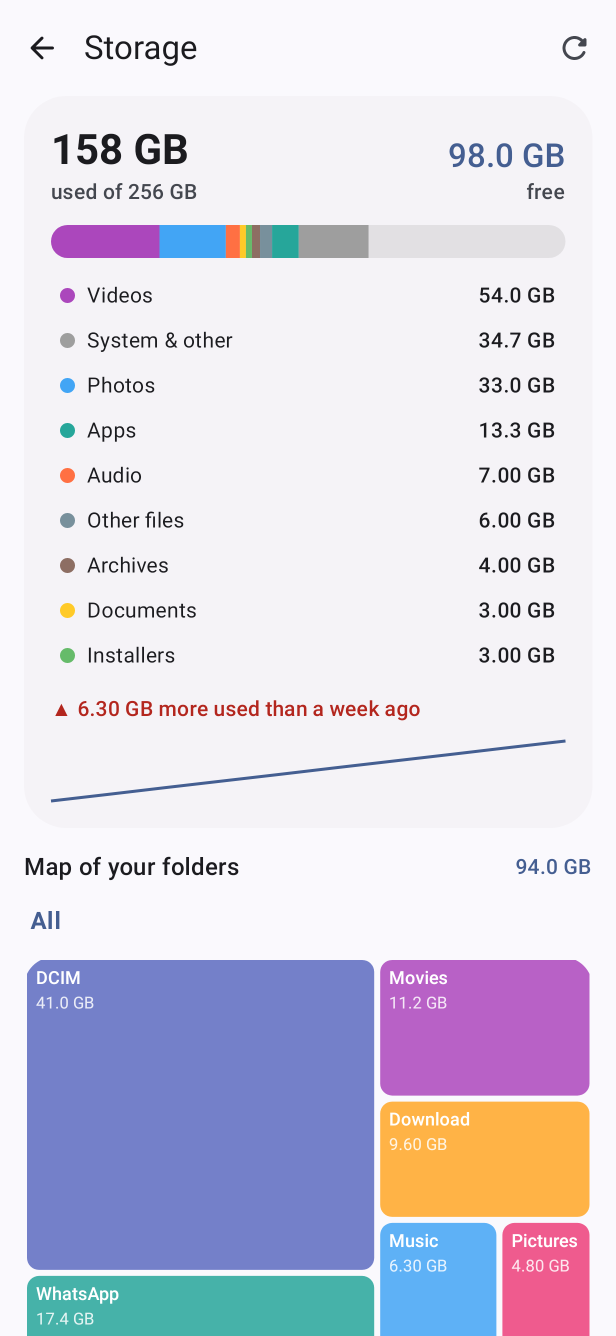
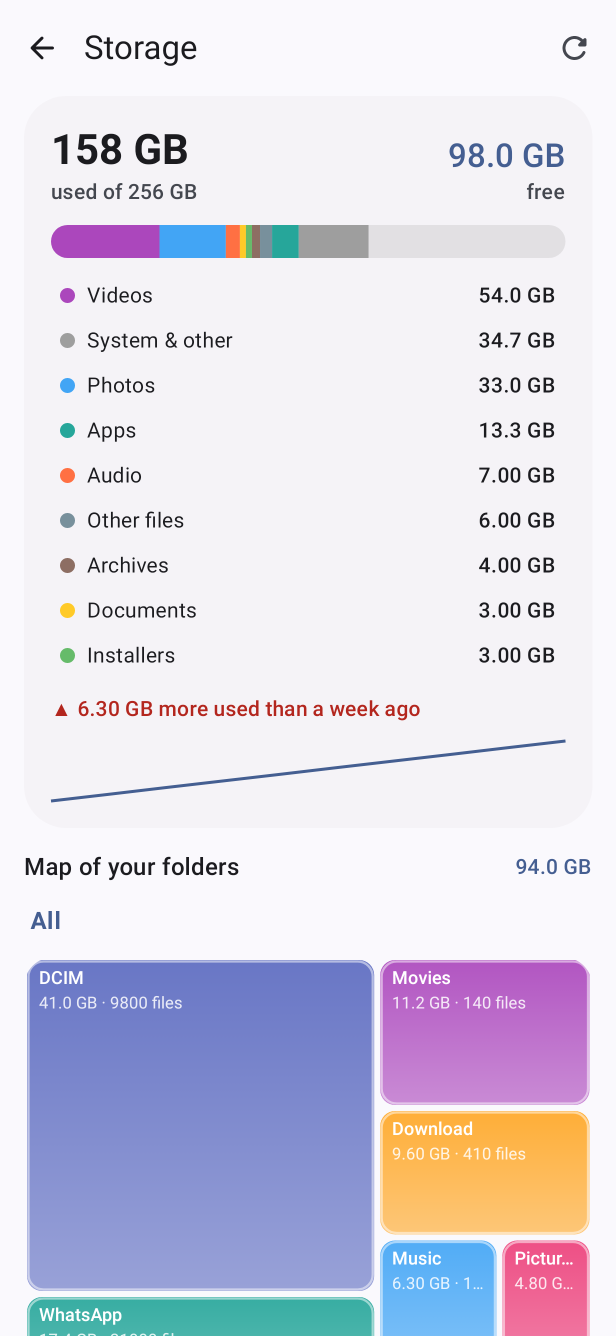
feat(storage): open a folder and see its files as tiles, with a zoom from the tapped tile and a short glow on the biggest
Folders that hold only files used to show one 'Files here' block. The scan now keeps each folder's 40 biggest files and the map draws subfolders and files together, with one tile for what is left so tiles add up to the folder. Tiles grow in one after another, tapping a folder zooms in from it, the biggest tile glows briefly every few seconds (no frames requested in between), and the totals count up. Adds a short file list under the map and a sixth README screenshot.

Claude-Session: https://claude.ai/code/session_01Tx3SnRy1Ho2ASXx4YFffLW

Changed region(s): [[0.0308, 0.7058, 0.9562, 1.0], [0.1851, 0.7365, 0.2776, 0.7672]]

diff --git a/app/src/main/java/app/ultimate/storage/StorageTool.kt b/app/src/main/java/app/ultimate/storage/StorageTool.kt
@@ -5,6 +5,16 @@ import android.net.Uri
 import android.provider.Settings
 import androidx.activity.compose.BackHandler
 import androidx.compose.animation.AnimatedContent
+import kotlinx.coroutines.delay
+import androidx.compose.ui.unit.Constraints
+import androidx.compose.ui.platform.LocalHapticFeedback
+import androidx.compose.ui.hapticfeedback.HapticFeedbackType
+import androidx.compose.ui.graphics.drawscope.withTransform
+import androidx.compose.ui.graphics.TransformOrigin
+import androidx.compose.ui.graphics.Brush
+import androidx.compose.runtime.mutableIntStateOf
+import androidx.compose.animation.scaleOut
+import androidx.compose.animation.core.LinearEasing
 import androidx.compose.animation.core.Animatable
 import androidx.compose.animation.core.FastOutSlowInEasing
 import androidx.compose.animation.core.tween
@@ -145,6 +155,9 @@ internal fun StorageScreen(app: UltimateApp, tool: StorageTool, onExit: () -> Un
     var path by remember { mutableStateOf(listOf<Folder>()) }
     var kindFilter by remember { mutableStateOf<FileKind?>(null) }
     var picked by remember { mutableStateOf<BigFile?>(null) }
+    var zoomFrom by remember { mutableStateOf(TransformOrigin.Center) }
+    var allHere by remember { mutableStateOf(false) }
+    LaunchedEffect(path) { allHere = false }
     fun rescan() = scope.launch {
         scanned = 0
         val r = withContext(Dispatchers.IO) { StorageScanner(context).scan { n -> scanned = n } }
@@ -205,11 +218,22 @@ internal fun StorageScreen(app: UltimateApp, tool: StorageTool, onExit: () -> Un
                                 color = if (i == path.size) MaterialTheme.colorScheme.primary else MaterialTheme.colorScheme.onSurfaceVariant, fontWeight = if (i == path.size) FontWeight.Bold else null)
                         }
                     }
-                    AnimatedContent(here, transitionSpec = { (scaleIn(initialScale = 0.92f) + fadeIn(tween(250))) togetherWith fadeOut(tween(150)) }, label = "map") { folder ->
-                        FolderMap(folder) { child -> if (child.children.isNotEmpty() || child.own > 0) path = path + child }
+                    // Going in zooms out of the tile you tapped; going back zooms away from it.
+                    AnimatedContent(here, transitionSpec = {
+                        val deeper = targetState.path.length > initialState.path.length
+                        if (deeper) (scaleIn(tween(340, easing = FastOutSlowInEasing), 0.3f, zoomFrom) + fadeIn(tween(220))) togetherWith (scaleOut(tween(260), 1.15f) + fadeOut(tween(160)))
+                        else (scaleIn(tween(300, easing = FastOutSlowInEasing), 1.12f) + fadeIn(tween(220))) togetherWith (scaleOut(tween(280), 0.3f, zoomFrom) + fadeOut(tween(200)))
+                    }, label = "map") { folder ->
+                        FolderMap(folder, onFolder = { child, origin -> zoomFrom = origin; path = path + child }, onFile = { picked = it })
                     }
-                    Text("Tap a tile to look inside. Bigger tile, more space.", style = MaterialTheme.typography.labelSmall, color = MaterialTheme.colorScheme.outline)
+                    Text("Tap a folder to look inside, or a file to open it. Bigger tile, more space.", style = MaterialTheme.typography.labelSmall, color = MaterialTheme.colorScheme.outline)
                 }
+            }
+            val hereFiles = (path.lastOrNull() ?: r.root).filesBySize()
+            if (hereFiles.isNotEmpty()) {
+                item("here-header") { Text(if (path.isEmpty()) "Files in the top folder" else "Files in ${path.last().name}", style = MaterialTheme.typography.titleMedium, fontWeight = FontWeight.SemiBold) }
+                items(hereFiles.take(if (allHere) 40 else 8), key = { "h" + it.path }) { f -> FileRow(f) { picked = f } }
+                if (hereFiles.size > 8 && !allHere) item("here-more") { TextButton({ allHere = true }) { Text("Show the biggest ${hereFiles.size}") } }
             }
             item { Text("Biggest folders", style = MaterialTheme.typography.titleMedium, fontWeight = FontWeight.SemiBold) }
             items(biggestFolders(r.root).take(8), key = { "f" + it.path }) { f ->
@@ -290,11 +314,11 @@ private fun Overview(r: StorageReport, selected: FileKind?, onKind: (FileKind) -
     Column(Modifier.fillMaxWidth().clip(RoundedCornerShape(28.dp)).background(MaterialTheme.colorScheme.surfaceContainerLow).padding(18.dp), verticalArrangement = Arrangement.spacedBy(12.dp)) {
         Row(verticalAlignment = Alignment.Bottom) {
             Column(Modifier.weight(1f)) {
-                Text(formatBytes(r.used), style = MaterialTheme.typography.headlineMedium, fontWeight = FontWeight.Bold)
+                Text(formatBytes((r.used * grow.value).toLong()), style = MaterialTheme.typography.headlineMedium, fontWeight = FontWeight.Bold)
                 Text("used of ${formatBytes(r.total)}", style = MaterialTheme.typography.labelLarge, color = MaterialTheme.colorScheme.onSurfaceVariant)
             }
             Column(horizontalAlignment = Alignment.End) {
-                Text(formatBytes(r.free), style = MaterialTheme.typography.titleLarge, color = MaterialTheme.colorScheme.primary, fontWeight = FontWeight.SemiBold)
+                Text(formatBytes((r.free * grow.value).toLong()), style = MaterialTheme.typography.titleLarge, color = MaterialTheme.colorScheme.primary, fontWeight = FontWeight.SemiBold)
                 Text("free", style = MaterialTheme.typography.labelLarge, color = MaterialTheme.colorScheme.onSurfaceVariant)
             }
         }
@@ -332,33 +356,66 @@ private fun Sparkline(values: List<Long>) {
     }
 }
 
-/** The squarified map of a folder's subfolders (and its own files as one tile); tap a tile to go inside. */
+/**
+ * The squarified map of what is in a folder: subfolders and files, tile size by bytes. Tiles grow in one after another, the
+ * pressed tile dips, and the biggest one gives a short glow every few seconds; nothing else moves, so it costs next to nothing.
+ */
 @Composable
-private fun FolderMap(folder: Folder, onOpen: (Folder) -> Unit) {
+internal fun FolderMap(folder: Folder, onFolder: (Folder, TransformOrigin) -> Unit, onFile: (BigFile) -> Unit) {
     val measurer = rememberTextMeasurer()
-    val children = folder.sortedChildren().take(24)
-    val shown = children.sumOf { it.bytes }
-    val items = children.map { Triple(it.path, it.name, it.bytes) } +
-        listOfNotNull((folder.bytes - shown).takeIf { it > 0 }?.let { Triple("__own", if (folder.own > 0 && children.size < 24) "Files here" else "Everything else", it) })
-    val tiles = remember(folder) { Treemap.layout(items) }
-    val palette = listOf(0xFF5C6BC0, 0xFF26A69A, 0xFFAB47BC, 0xFFFFA726, 0xFF42A5F5, 0xFFEC407A, 0xFF66BB6A, 0xFF8D6E63).map { Color(it) }
-    val grow = remember(folder) { Animatable(0f) }
-    LaunchedEffect(folder) { grow.animateTo(1f, tween(500, easing = FastOutSlowInEasing)) }
-    Box(Modifier.fillMaxWidth().height(300.dp).clip(RoundedCornerShape(20.dp))) {
+    val items = remember(folder) { MapItems.of(folder) }
+    val byKey = remember(items) { items.associateBy { it.key } }
+    val tiles = remember(items) { Treemap.layout(items.map { Triple(it.key, it.label, it.bytes) }) }
+    val palette = remember { listOf(0xFF5C6BC0, 0xFF26A69A, 0xFFAB47BC, 0xFFFFA726, 0xFF42A5F5, 0xFFEC407A, 0xFF66BB6A, 0xFF8D6E63).map { Color(it) } }
+    val intro = remember(folder) { Animatable(0f) }
+    LaunchedEffect(folder) { intro.animateTo(1f, tween(700, easing = LinearEasing)) }
+    // One short glow on the biggest tile every few seconds. Between glows no frame is requested at all.
+    val glow = remember(folder) { Animatable(0f) }
+    LaunchedEffect(folder) { delay(1500); while (true) { glow.snapTo(0f); glow.animateTo(1f, tween(900)); delay(6000) } }
+    var pressed by remember(folder) { mutableIntStateOf(-1) }
+    val haptics = LocalHapticFeedback.current
+    Box(Modifier.fillMaxWidth().height(320.dp).clip(RoundedCornerShape(20.dp))) {
         Canvas(Modifier.fillMaxSize().pointerInput(tiles) {
-            detectTapGestures { p -> tiles.firstOrNull { t -> p.x / size.width in t.x..(t.x + t.w) && p.y / size.height in t.y..(t.y + t.h) }?.let { t -> children.firstOrNull { it.path == t.key }?.let(onOpen) } }
+            fun hit(p: Offset) = tiles.indexOfFirst { t -> p.x / size.width in t.x..(t.x + t.w) && p.y / size.height in t.y..(t.y + t.h) }
+            detectTapGestures(onPress = { p -> pressed = hit(p); tryAwaitRelease(); pressed = -1 }) { p ->
+                val i = hit(p); if (i < 0) return@detectTapGestures
+                val item = byKey[tiles[i].key] ?: return@detectTapGestures
+                val t = tiles[i]
+                when {
+                    item.folder != null -> { haptics.performHapticFeedback(HapticFeedbackType.TextHandleMove); onFolder(item.folder, TransformOrigin(t.x + t.w / 2, t.y + t.h / 2)) }
+                    item.file != null -> onFile(item.file)
+                }
+            }
         }) {
+            val n = tiles.size
+            var palettePick = 0
             tiles.forEachIndexed { i, t ->
+                val item = byKey[t.key] ?: return@forEachIndexed
+                // Each tile starts a little after the one before it.
+                val e = FastOutSlowInEasing.transform(((intro.value * (n + 5) - i) / 5f).coerceIn(0f, 1f))
                 val gap = 2.dp.toPx()
                 val tl = Offset(t.x * size.width + gap, t.y * size.height + gap)
                 val sz = Size((t.w * size.width - gap * 2).coerceAtLeast(0f), (t.h * size.height - gap * 2).coerceAtLeast(0f))
-                val base = if (t.key == "__own") Color(0xFF546E7A) else palette[i % palette.size]
-                drawRoundRect(base.copy(alpha = 0.35f + 0.5f * grow.value), tl, sz, CornerRadius(8.dp.toPx()))
-                if (sz.width > 56.dp.toPx() && sz.height > 30.dp.toPx()) {
-                    val style = TextStyle(color = Color.White, fontSize = 12.sp, fontWeight = FontWeight.SemiBold)
-                    val label = measurer.measure(t.label, style, maxLines = 1, overflow = TextOverflow.Ellipsis, constraints = androidx.compose.ui.unit.Constraints(maxWidth = (sz.width - 12.dp.toPx()).toInt().coerceAtLeast(1)))
-                    drawText(label, topLeft = tl + Offset(6.dp.toPx(), 5.dp.toPx()))
-                    if (sz.height > 48.dp.toPx()) drawText(measurer.measure(formatBytes(t.bytes), TextStyle(color = Color.White.copy(alpha = 0.85f), fontSize = 11.sp)), topLeft = tl + Offset(6.dp.toPx(), 22.dp.toPx()))
+                val base = when { item.file != null -> KIND_COLORS[item.file.kind] ?: Color(0xFF78909C); item.hidden > 0 -> Color(0xFF546E7A); else -> palette[palettePick++ % palette.size] }
+                val s = (0.82f + 0.18f * e) * (if (pressed == i) 0.97f else 1f)
+                withTransform({ scale(s, s, pivot = tl + Offset(sz.width / 2, sz.height / 2)) }) {
+                    val radius = CornerRadius(10.dp.toPx())
+                    drawRoundRect(Brush.verticalGradient(listOf(base.copy(alpha = 0.92f * e), base.copy(alpha = 0.62f * e)), startY = tl.y, endY = tl.y + sz.height), tl, sz, radius)
+                    // Folders (which open) get a soft inner outline; files are plain.
+                    if (item.folder != null) drawRoundRect(Color.White.copy(alpha = 0.5f * e), tl + Offset(1.dp.toPx(), 1.dp.toPx()), Size(sz.width - 2.dp.toPx(), sz.height - 2.dp.toPx()), radius, style = Stroke(1.5.dp.toPx()))
+                    if (i == 0 && glow.value > 0f && glow.value < 1f) {
+                        val grow = glow.value * 6.dp.toPx()
+                        drawRoundRect(Color.White.copy(alpha = (1f - glow.value) * 0.6f), tl - Offset(grow, grow), Size(sz.width + grow * 2, sz.height + grow * 2), CornerRadius(10.dp.toPx() + grow), style = Stroke(2.dp.toPx()))
+                    }
+                    if (sz.width > 56.dp.toPx() && sz.height > 30.dp.toPx()) {
+                        val inset = 8.dp.toPx()
+                        val maxW = (sz.width - inset - 6.dp.toPx()).toInt().coerceAtLeast(1)
+                        drawText(measurer.measure(item.label, TextStyle(color = Color.White.copy(alpha = e), fontSize = 12.sp, fontWeight = FontWeight.SemiBold), maxLines = 1, overflow = TextOverflow.Ellipsis, constraints = Constraints(maxWidth = maxW)), topLeft = tl + Offset(inset, 5.dp.toPx()))
+                        if (sz.height > 48.dp.toPx()) {
+                            val line = formatBytes(item.bytes) + (item.folder?.let { " · ${it.files} files" } ?: "")
+                            drawText(measurer.measure(line, TextStyle(color = Color.White.copy(alpha = 0.85f * e), fontSize = 11.sp), maxLines = 1, overflow = TextOverflow.Ellipsis, constraints = Constraints(maxWidth = maxW)), topLeft = tl + Offset(inset, 22.dp.toPx()))
+                        }
+                    }
                 }
             }
         }

diff --git a/app/src/testUltimateplus/java/app/ultimate/shots/ScreenshotTest.kt b/app/src/testUltimateplus/java/app/ultimate/shots/ScreenshotTest.kt
@@ -4,14 +4,19 @@ import android.app.NotificationManager
 import android.content.Intent
 import android.os.Environment
 import androidx.compose.foundation.layout.PaddingValues
+import androidx.compose.foundation.background
 import androidx.compose.foundation.layout.fillMaxSize
+import androidx.compose.foundation.layout.wrapContentSize
+import androidx.compose.foundation.layout.padding
 import androidx.compose.material3.MaterialTheme
 import androidx.compose.material3.Surface
 import androidx.compose.ui.Modifier
 import androidx.compose.ui.test.hasSetTextAction
 import androidx.compose.ui.test.junit4.createComposeRule
 import androidx.compose.ui.test.onNodeWithContentDescription
+import androidx.compose.ui.test.onNodeWithTag
 import androidx.compose.ui.test.onRoot
+import androidx.compose.ui.platform.testTag
 import androidx.compose.ui.test.performClick
 import androidx.compose.ui.test.performTextInput
 import androidx.compose.ui.unit.dp
@@ -29,6 +34,7 @@ import app.ultimate.sshclient.HostsTool
 import app.ultimate.storage.AppSize
 import app.ultimate.storage.BigFile
 import app.ultimate.storage.Folder
+import app.ultimate.storage.FolderMap
 import app.ultimate.storage.StorageReport
 import app.ultimate.storage.StorageTool
 import com.github.takahirom.roborazzi.RoborazziOptions
@@ -79,9 +85,17 @@ class ScreenshotTest {
         compose.waitForIdle()
     }
 
-    private fun save(name: String) {
+    /** Saves the whole screen, or only the part of it holding the node tagged [tag] (cropped from its measured bounds). */
+    private fun save(name: String, tag: String? = null) {
         val out = dir!!.apply { mkdirs() }.resolve("$name.png")
-        compose.onRoot().captureRoboImage(out.path, roborazziOptions = RoborazziOptions(taskType = RoborazziTaskType.Record, recordOptions = RoborazziOptions.RecordOptions(resizeScale = 0.5)))
+        val scale = 0.5
+        compose.onRoot().captureRoboImage(out.path, roborazziOptions = RoborazziOptions(taskType = RoborazziTaskType.Record, recordOptions = RoborazziOptions.RecordOptions(resizeScale = scale)))
+        if (tag != null) {
+            val box = compose.onNodeWithTag(tag).fetchSemanticsNode().boundsInRoot
+            val whole = android.graphics.BitmapFactory.decodeFile(out.path)
+            val crop = android.graphics.Bitmap.createBitmap(whole, (box.left * scale).toInt(), (box.top * scale).toInt(), (box.width * scale).toInt().coerceAtMost(whole.width), (box.height * scale).toInt())
+            out.outputStream().use { crop.compress(android.graphics.Bitmap.CompressFormat.PNG, 100, it) }
+        }
         println("SHOT>>> $name ${out.length()} bytes")
     }
 
@@ -125,6 +139,18 @@ class ScreenshotTest {
         ).forEach { tool.vault.saveHost(it) }
         show { tool.Screen({}, ToolLaunch()) }
         save("hosts")
+    }
+
+    /** A folder that holds only files, like Movies/Sora: the map shows each file instead of one block. */
+    @Test fun storageFolder() {
+        val sora = Folder("Sora", "/sdcard/Movies/Sora")
+        fun f(name: String, mb: Long, kind: FileKind) = BigFile(sora.path + "/" + name, name, mb * 1_000_000, System.currentTimeMillis(), kind).also { sora.addFile(it); sora.own += it.bytes; sora.ownFiles++; sora.bytes += it.bytes; sora.files++ }
+        f("sora-city-walk.mp4", 612, FileKind.Video); f("sora-ocean-4k.mp4", 431, FileKind.Video); f("sora-forest.mp4", 287, FileKind.Video)
+        f("sora-desert-loop.mp4", 150, FileKind.Video); f("storyboard.pdf", 64, FileKind.Document); f("sora-cat.mp4", 52, FileKind.Video); f("notes.txt", 1, FileKind.Document)
+        sora.children["Drafts"] = Folder("Drafts", sora.path + "/Drafts").also { it.bytes = 74_000_000; it.files = 9; sora.bytes += it.bytes }
+        show { androidx.compose.foundation.layout.Column(Modifier.wrapContentSize(androidx.compose.ui.Alignment.TopStart).testTag("frame").background(MaterialTheme.colorScheme.background).padding(16.dp)) { androidx.compose.material3.Text("All  ›  Movies  ›  Sora", color = MaterialTheme.colorScheme.primary); FolderMap(sora, { _, _ -> }, { }) } }
+        compose.mainClock.advanceTimeBy(1200)
+        save("storage-folder", "frame")
     }
 
     @Test fun about() {

diff --git a/app/src/test/java/app/ultimate/StorageTest.kt b/app/src/test/java/app/ultimate/StorageTest.kt
@@ -62,3 +62,47 @@ class StorageTest {
         assertEquals(listOf("DCIM", "Camera"), chainTo(root, cam).map { it.name })
     }
 }
+
+class MapItemsTest {
+    private val gb = 1_000_000_000L
+    private fun file(folder: app.ultimate.storage.Folder, name: String, bytes: Long) =
+        app.ultimate.storage.BigFile(folder.path + "/" + name, name, bytes, 0, app.ultimate.files.FileKind.Video).also { folder.addFile(it); folder.own += bytes; folder.ownFiles++; folder.bytes += bytes }
+
+    @Test fun aFolderOfOnlyFilesShowsEachFile() {
+        val sora = app.ultimate.storage.Folder("Sora", "/Movies/Sora")
+        file(sora, "a.mp4", 600_000_000); file(sora, "b.mp4", 500_000_000); file(sora, "c.mp4", 400_000_000); file(sora, "d.mp4", 170_000_000)
+        val items = app.ultimate.storage.MapItems.of(sora)
+        assertEquals(listOf("a.mp4", "b.mp4", "c.mp4", "d.mp4"), items.map { it.label })
+        assertTrue(items.all { it.file != null && it.folder == null })
+        assertEquals(sora.bytes, items.sumOf { it.bytes })
+    }
+
+    @Test fun foldersAndFilesShareTheMapBiggestFirst() {
+        val root = app.ultimate.storage.Folder("DCIM", "/DCIM")
+        val sub = app.ultimate.storage.Folder("Camera", "/DCIM/Camera").also { it.bytes = 3 * gb; it.files = 30; root.children["Camera"] = it; root.bytes += it.bytes }
+        file(root, "big.mp4", 5 * gb); file(root, "small.jpg", gb / 100)
+        val items = app.ultimate.storage.MapItems.of(root)
+        assertEquals(listOf("big.mp4", "Camera", "small.jpg"), items.map { it.label })
+        assertEquals(sub, items[1].folder)
+    }
+
+    @Test fun manySmallFilesBecomeOneHonestTile() {
+        val f = app.ultimate.storage.Folder("Cache", "/Cache")
+        repeat(100) { file(f, "f$it", 1_000_000L + it) }
+        val items = app.ultimate.storage.MapItems.of(f, cap = 10)
+        assertEquals(10, items.size)
+        val rest = items.last()
+        assertEquals(app.ultimate.storage.MapItems.REST, rest.key)
+        assertEquals("91 smaller items", rest.label)
+        assertEquals(f.bytes, items.sumOf { it.bytes }) // the tiles always add up to the folder
+    }
+
+    @Test fun filesBeyondTheOnesKeptAreStillCounted() {
+        val f = app.ultimate.storage.Folder("Photos", "/Photos")
+        repeat(60) { file(f, "p$it", 2_000_000L + it) }
+        assertEquals(40, f.filesBySize().size)
+        val items = app.ultimate.storage.MapItems.of(f)
+        assertTrue(items.last().hidden >= 20 && items.sumOf { it.bytes } == f.bytes)
+        assertEquals(emptyList<app.ultimate.storage.MapItem>(), app.ultimate.storage.MapItems.of(app.ultimate.storage.Folder("Empty", "/Empty")))
+    }
+}

diff --git a/app/src/main/java/app/ultimate/storage/StorageModel.kt b/app/src/main/java/app/ultimate/storage/StorageModel.kt
@@ -7,12 +7,39 @@ class Folder(val name: String, val path: String) {
     var bytes = 0L
     var files = 0
     val children = HashMap<String, Folder>()
-    /** Bytes held directly in this folder (not in subfolders), shown as its own tile. */
+    /** Bytes held directly in this folder (not in subfolders), and how many files that is. */
     var own = 0L
+    var ownFiles = 0
+    /** The biggest files held directly in this folder (a bounded few), so the map can show what is inside. */
+    private val largest = java.util.PriorityQueue<BigFile>(compareBy { it.bytes })
+    fun addFile(f: BigFile) { largest.add(f); if (largest.size > KEEP_FILES) largest.poll() }
+    fun filesBySize(): List<BigFile> = largest.sortedByDescending { it.bytes }
     fun sortedChildren(): List<Folder> = children.values.sortedByDescending { it.bytes }
+    private companion object { const val KEEP_FILES = 40 }
 }
 
 data class BigFile(val path: String, val name: String, val bytes: Long, val modified: Long, val kind: FileKind)
+
+/** One tile of a folder's map: a subfolder, a file, or one tile standing for [hidden] smaller things. */
+data class MapItem(val key: String, val label: String, val bytes: Long, val folder: Folder? = null, val file: BigFile? = null, val hidden: Int = 0)
+
+object MapItems {
+    const val REST = "__rest"
+
+    /**
+     * What to draw for [folder]: its subfolders and its own biggest files, biggest first, at most [cap] tiles. Whatever does
+     * not get a tile of its own (small files, files past the ones kept, folders past the cap) is one last tile, so the tiles
+     * always add up to the folder's size.
+     */
+    fun of(folder: Folder, cap: Int = 28): List<MapItem> {
+        val all = (folder.children.values.map { MapItem(it.path, it.name, it.bytes, folder = it) } + folder.filesBySize().map { MapItem(it.path, it.name, it.bytes, file = it) })
+            .filter { it.bytes > 0 }.sortedByDescending { it.bytes }
+        val shown = if (all.size > cap) all.take(cap - 1) else all
+        val rest = folder.bytes - shown.sumOf { it.bytes }
+        val hidden = folder.children.size + folder.ownFiles - shown.size
+        return if (rest > 0 && hidden > 0) shown + MapItem(REST, if (hidden == 1) "1 smaller item" else "$hidden smaller items", rest, hidden = hidden) else shown
+    }
+}
 
 /** One rectangle of the storage map, in 0..1 coordinates of the map area. */
 data class Tile(val key: String, val label: String, val bytes: Long, val x: Float, val y: Float, val w: Float, val h: Float)

diff --git a/app/src/main/java/app/ultimate/home/AboutInfo.kt b/app/src/main/java/app/ultimate/home/AboutInfo.kt
@@ -34,7 +34,8 @@ object Changelog {
     data class Entry(val version: String, val notes: List<String>)
 
     val entries = listOf(
-        Entry("1.31.1", listOf("Storage: clearer header and sizes (158 GB instead of 158.00 GB).", "Screenshots and a release workflow for GitHub.")),
+        Entry("1.32.0", listOf("Storage: open a folder and see its files as tiles, with a zoom from the tile you tap and a short glow on the biggest one.", "Clearer header and sizes (158 GB instead of 158.00 GB).")),
+        Entry("1.31.1", listOf("Screenshots and a release workflow for GitHub.")),
         Entry("1.31.0", listOf("New About and settings screen: version, what's new, setup checklist, crashes and a copy-details button.")),
         Entry("1.30.1", listOf("Fixed the Terminal (and SSH tabs) crashing when opened.")),
         Entry("1.30.0", listOf("SSH client: saved hosts, keys, snippets, and connecting from the terminal.")),

diff --git a/app/src/main/java/app/ultimate/storage/StorageScanner.kt b/app/src/main/java/app/ultimate/storage/StorageScanner.kt
@@ -53,8 +53,9 @@ class StorageScanner(private val context: Context) {
                 node = node.children.getOrPut(part) { Folder(part, node.path + File.separator + part) }
                 node.bytes += bytes; node.files++
             }
-            node.own += bytes
+            node.own += bytes; node.ownFiles++
             val big = BigFile(path, parts.last(), bytes, item.modified, kind)
+            node.addFile(big)
             if (biggest.size < 60 || bytes > biggest.peek()!!.bytes) { biggest.add(big); if (biggest.size > 60) biggest.poll() }
             if (bytes > 50_000_000 && now - item.modified > 365 * 86_400_000L) { forgotten.add(big); if (forgotten.size > 40) forgotten.poll() }
         }

diff --git a/app/src/test/java/app/ultimate/AboutTest.kt b/app/src/test/java/app/ultimate/AboutTest.kt
@@ -33,7 +33,7 @@ class AboutTest {
 
     @Test fun theChangelogStartsAtTheCurrentVersion() {
         assertEquals(listOf("1.30.0", "1.29.0"), Changelog.recent("1.30.0", 2).map { it.version })
-        assertEquals("1.31.1", Changelog.entries.first().version)
+        assertEquals("1.32.0", Changelog.entries.first().version)
         assertEquals(Changelog.entries.first().version, Changelog.recent("9.9.9", 1).single().version) // an unknown version still shows the latest news
         assertTrue(Changelog.entries.map { it.version }.toSet().size == Changelog.entries.size)
     }

diff --git a/README.md b/README.md
@@ -3,14 +3,17 @@
 One Android app that holds a growing set of tools for your own phone: edit and shrink video, see what fills your storage, keep your notification and clipboard history, run rules like "silence at night", open a terminal, and connect to your servers over SSH. No ads, no analytics, no accounts.
 
 <p align="center">
-  <img src="docs/screenshots/home.png" width="19%" alt="Home">
-  <img src="docs/screenshots/storage.png" width="19%" alt="Storage map">
-  <img src="docs/screenshots/rules.png" width="19%" alt="Rules">
-  <img src="docs/screenshots/hosts.png" width="19%" alt="SSH hosts">
-  <img src="docs/screenshots/about.png" width="19%" alt="About and settings">
+  <img src="docs/screenshots/home.png" width="30%" alt="Home">
+  <img src="docs/screenshots/storage.png" width="30%" alt="Storage map">
+  <img src="docs/screenshots/storage-folder.png" width="30%" alt="Inside a folder: every file is a tile">
+</p>
+<p align="center">
+  <img src="docs/screenshots/rules.png" width="30%" alt="Rules">
+  <img src="docs/screenshots/hosts.png" width="30%" alt="SSH hosts">
+  <img src="docs/screenshots/about.png" width="30%" alt="About and settings">
 </p>
 
-<sub>Screenshots are the app's own screens, rendered on a simulated phone with sample data (not photos of a real device). Home, Storage, Rules, SSH hosts, About and settings. Regenerate them with `gradle -Pscreenshots :app:testUltimateplusDebugUnitTest --tests '*ScreenshotTest'`.</sub>
+<sub>Screenshots are the app's own screens, rendered on a simulated phone with sample data (not photos of a real device). Home, Storage, inside a folder, Rules, SSH hosts, About and settings. Regenerate them with `gradle -Pscreenshots :app:testUltimateplusDebugUnitTest --tests '*ScreenshotTest'`.</sub>
 
 ## Download
 
